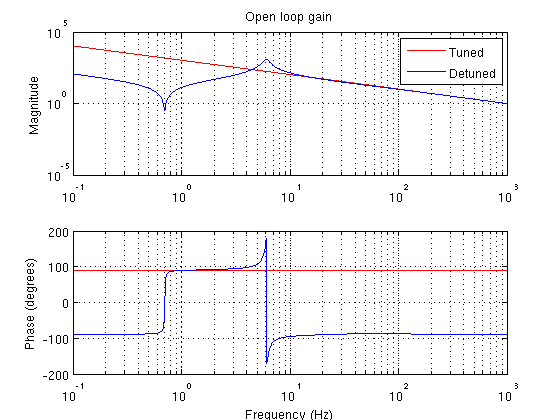
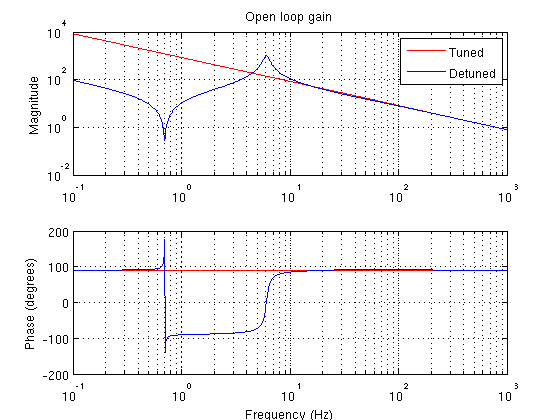
update published example.

diff --git a/examples/html/exampleLock.html b/examples/html/exampleLock.html
@@ -6,7 +6,7 @@
    <!--
 This HTML was auto-generated from MATLAB code.
 To make changes, update the MATLAB code and republish this document.
-      --><title>Setpoint locking example</title><meta name="generator" content="MATLAB 8.1"><link rel="schema.DC" href="http://purl.org/dc/elements/1.1/"><meta name="DC.date" content="2013-08-20"><meta name="DC.source" content="exampleLock.m"><style type="text/css">
+      --><title>Setpoint locking example</title><meta name="generator" content="MATLAB 8.1"><link rel="schema.DC" href="http://purl.org/dc/elements/1.1/"><meta name="DC.date" content="2013-08-28"><meta name="DC.source" content="exampleLock.m"><style type="text/css">
 html,body,div,span,applet,object,iframe,h1,h2,h3,h4,h5,h6,p,blockquote,pre,a,abbr,acronym,address,big,cite,code,del,dfn,em,font,img,ins,kbd,q,s,samp,small,strike,strong,sub,sup,tt,var,b,u,i,center,dl,dt,dd,ol,ul,li,fieldset,form,label,legend,table,caption,tbody,tfoot,thead,tr,th,td{margin:0;padding:0;border:0;outline:0;font-size:100%;vertical-align:baseline;background:transparent}body{line-height:1}ol,ul{list-style:none}blockquote,q{quotes:none}blockquote:before,blockquote:after,q:before,q:after{content:'';content:none}:focus{outine:0}ins{text-decoration:none}del{text-decoration:line-through}table{border-collapse:collapse;border-spacing:0}
 
 html { min-height:100%; margin-bottom:1px; }
@@ -82,7 +82,7 @@ cucumber.sensDof = [ 1 , 0 ]; <span class="comment">% REFL_I is length sensor</s
 cucumber.dofNames = {<span class="string">'length'</span>};
 
 cucumber.ctrlFilt = [filtZPK([100],[0],1)];
-cucumber.setUgfDof = [ 1000 ];
+cucumber.setUgfDof = [ 800 ];
 cucumber.dofMirr = [ 0
                      1 ]; <span class="comment">% length feeds back to ETM</span>
 
@@ -94,14 +94,14 @@ cucumber.pendFilt = [ unityFilt , unityFilt ]; <span class="comment">% for simpl
 errorOffset = -10;
 
 <span class="comment">% first the zero detuning pos offset</span>
-posZero = lentickleLock(cucumber,0);
+cucumberZero = lentickleLock(cucumber,0);
 
 <span class="comment">% and the detuned pos offset</span>
-posDetune = lentickleLock(cucumber,errorOffset);
+cucumberDetune = lentickleLock(cucumber,errorOffset);
 </pre><h2>Calculate transfer functions for the different detunings<a name="4"></a></h2><pre class="codeinput"><span class="comment">% solve the closed loop system</span>
 f = logspace(-1,3,1000);
-resultsZero = lentickleEngine(cucumber,posZero,f);
-resultsDetune = lentickleEngine(cucumber,posDetune,f);
+resultsZero = lentickleEngine(cucumberZero,[],f);
+resultsDetune = lentickleEngine(cucumberDetune,[],f);
 
 <span class="comment">% calculate the open loop gain for the length loop</span>
 OLGZero = 1-1./pickleTF(resultsZero,<span class="string">'length'</span>,<span class="string">'length'</span>);
@@ -148,7 +148,7 @@ cucumber.sensDof = [ 1 , 0 ]; % REFL_I is length sensor
 cucumber.dofNames = {'length'};
 
 cucumber.ctrlFilt = [filtZPK([100],[0],1)];
-cucumber.setUgfDof = [ 1000 ];
+cucumber.setUgfDof = [ 800 ];
 cucumber.dofMirr = [ 0 
                      1 ]; % length feeds back to ETM
 
@@ -163,17 +163,17 @@ cucumber.pendFilt = [ unityFilt , unityFilt ]; % for simplicity, the actuator ac
 errorOffset = -10;
 
 % first the zero detuning pos offset
-posZero = lentickleLock(cucumber,0);
+cucumberZero = lentickleLock(cucumber,0);
 
 % and the detuned pos offset
-posDetune = lentickleLock(cucumber,errorOffset);
+cucumberDetune = lentickleLock(cucumber,errorOffset);
 
 %% Calculate transfer functions for the different detunings
 
 % solve the closed loop system
 f = logspace(-1,3,1000);
-resultsZero = lentickleEngine(cucumber,posZero,f);
-resultsDetune = lentickleEngine(cucumber,posDetune,f);
+resultsZero = lentickleEngine(cucumberZero,[],f);
+resultsDetune = lentickleEngine(cucumberDetune,[],f);
 
 % calculate the open loop gain for the length loop
 OLGZero = 1-1./pickleTF(resultsZero,'length','length');
